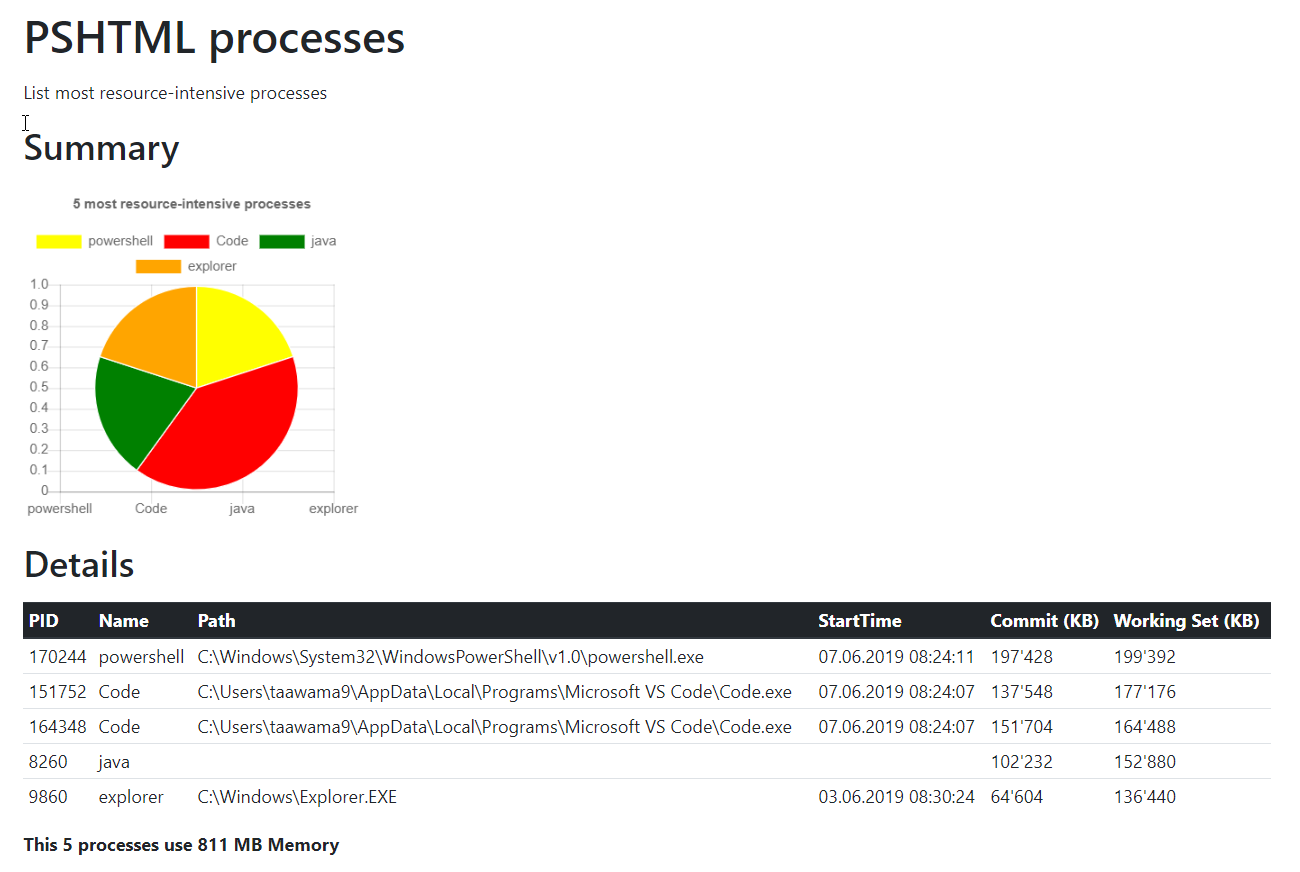
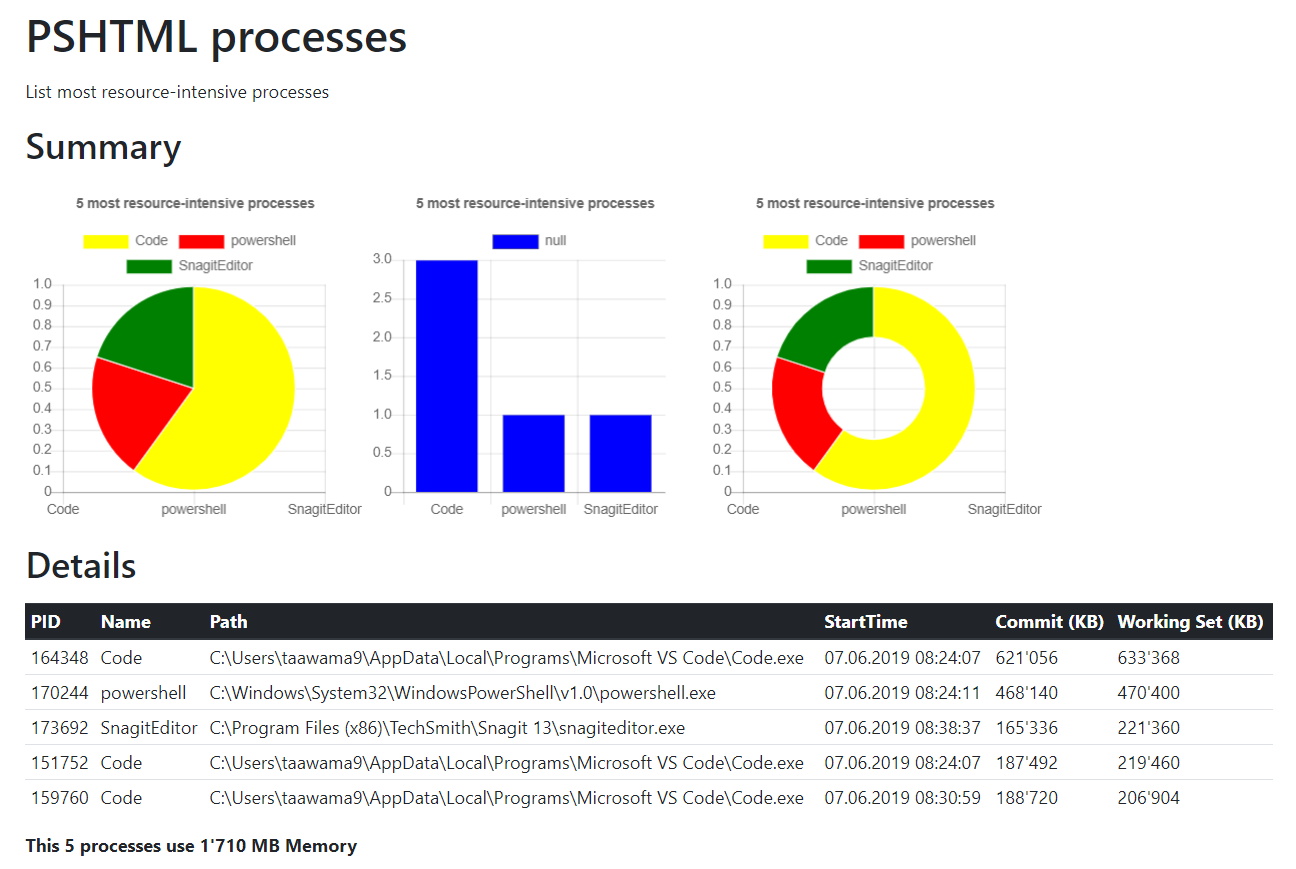
Adding PSHTML report

diff --git a/_posts/dev/2020-06-07-pshtml.md b/_posts/dev/2020-06-07-pshtml.md
@@ -43,11 +43,26 @@ Get-Command -Module PSHTML
     https://getbootstrap.com/
 #>
 
+function Get-MWAProcess{
+    [CmdletBinding()]
+    param(
+        [Parameter(Mandatory=$true)]
+        [Int] $count
+    )
+
+    return Get-Process | `
+        Select-Object Id,Name,Starttime,Path,PrivateMemorySize64,WorkingSet64 | `
+        Sort-Object WorkingSet64 -Descending | `
+        Select-Object -First $count
+}
+
 if(-not(Get-Module -Name PSHTML)){
     Import-Module PSHTML
 }
 
-$PieCanvasID = "piecanvas"
+$PieCanvasID      = "piecanvas"
+$DoughnutCanvasID = "Doughnutcanvas"
+$BarCanvasID      = "barcanvas"
 
 $HTML = html {
 
@@ -67,11 +82,7 @@ $HTML = html {
 
     body{
 
-        $process = Get-Process | `
-        Select-Object Id,Name,Starttime,Path,PrivateMemorySize64,WorkingSet64 | `
-        Sort-Object WorkingSet64 -Descending | `
-        Select-Object -First 5
-
+        $process = Get-MWAProcess -count 5
         $process | ForEach-Object {
             $total += $_.WorkingSet64
         }
@@ -86,18 +97,33 @@ $HTML = html {
                 h2 "Summary"
             }
 
-            canvas -Height 300px -Width 300px -Id $PieCanvasID {}
+            div -Class "table-responsive" {
+                Table {
+                    Thead {
+                        Th {canvas -Height 300px -Width 300px -Id $PieCanvasID {}}
+                        Th {canvas -Height 300px -Width 300px -Id $BarCanvasID {}}
+                        Th {canvas -Height 300px -Width 300px -Id $DoughnutCanvasID {}}
+                    }
+                }
+            }
             script -content {
 
                 $data   = $process | Group-Object Name
                 $counts = $data | ForEach-Object {$_.Count}
                 $labels = $data.Name
                 $colors = @("yellow","red","green","orange","blue")
+                
                 $dsp1   = New-PSHTMLChartPieDataSet -Data $counts -BackgroundColor $colors
-
                 New-PSHTMLChart -type pie -DataSet $dsp1 -title "$($process.count) most resource-intensive processes" -Labels $labels -CanvasID $PieCanvasID 
-            }
 
+                $dsb1 = New-PSHTMLChartBarDataSet -Data $counts -BackgroundColor "blue"
+                New-PSHTMLChart -type bar -DataSet $dsb1 -title "$($process.count) most resource-intensive processes" -Labels $labels -CanvasID $BarCanvasID 
+
+                $dsd1 = New-PSHTMLChartDoughnutDataSet -Data $counts backgroundcolor $colors -hoverbackgroundColor $Colors
+                New-PSHTMLChart -Type doughnut -DataSet $dsd1 -title "$($process.count) most resource-intensive processes" -Labels $labels -CanvasID $DoughnutCanvasID 
+
+            }
+        
             p {
                 h2 "Details"
             }
@@ -158,9 +184,9 @@ $HTML = html {
     }
 }
 
-$Path = "$($HOME)\PSHTML-processes.html"
+$Path = "$($HOME)\example.html"
 $Html | Out-File -FilePath $Path -Encoding utf8
-Start-Process $Path
+Start-Process $Path 
 ````
 
 [ [Top] ](#table-of-contents)

diff --git a/_posts/dev/2019-01-29-psnettools.md b/_posts/dev/2019-01-29-psnettools.md
@@ -1,6 +1,6 @@
 ---
 layout: post
-title:  "PowerShell Network Tools"
+title:  "PsNetTools"
 author: Tinu
 categories: "PowerShell-Module"
 tags:   PowerShell
